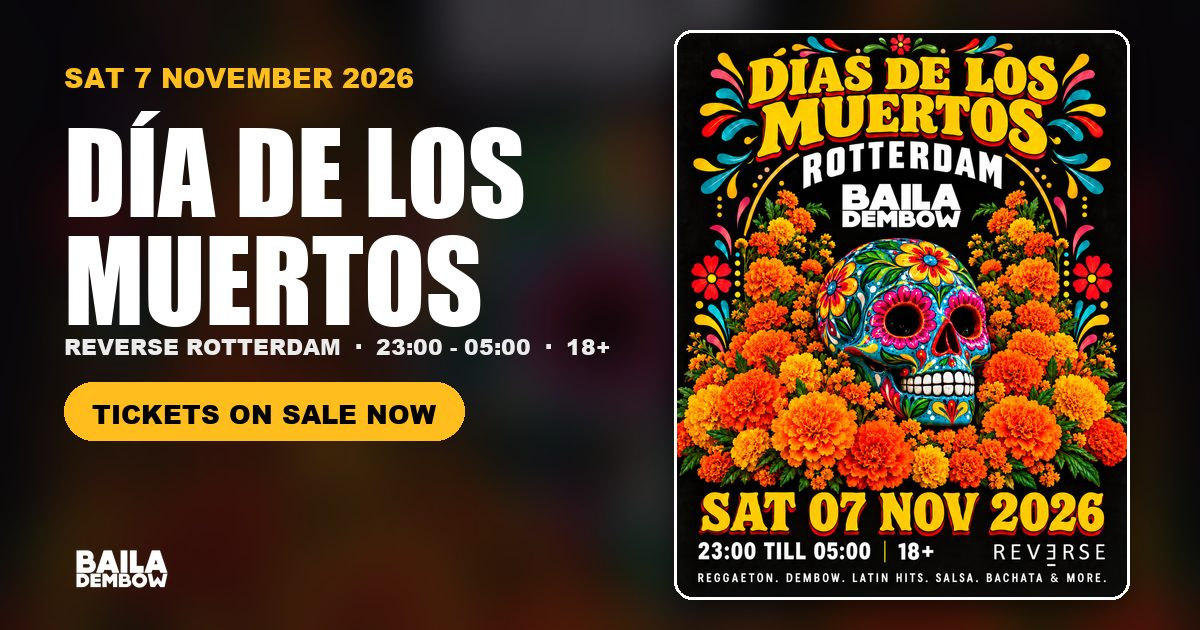
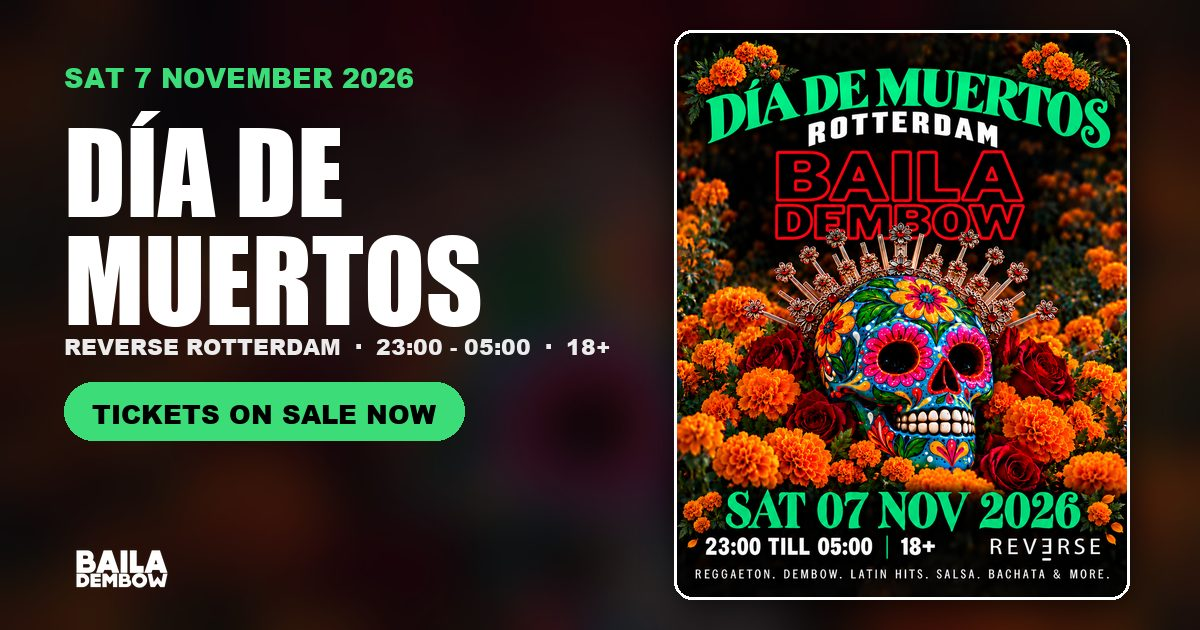
Día de Muertos Rotterdam live with the final poster
New poster (green/orange), preview card regenerated to match, event moved
back into EVENTS as "DÍA DE MUERTOS // ROTTERDAM"; sitemap entry and FAQ
agenda restored.

diff --git a/frontend/src/utils/constants.js b/frontend/src/utils/constants.js
@@ -56,7 +56,7 @@ export const GALLERY_IMAGES = [
 //   2026-10-05 — Amsterdam Oliva (26 Sep), Eindhoven (2 Oct), Rotterdam All White
 //                (3 Oct) removed (past)
 //   2026-10-12 — Groningen Huize Maas (10 Oct) removed (past)
-//   2026-10-16 — Rotterdam Día de los Muertos (7 Nov, Club Reverse) added, then parked in HIDDEN_EVENTS (poster change)
+//   2026-10-16 — Rotterdam Día de Muertos (7 Nov, Club Reverse) added (live with the final poster)
 //   Keep EVENTS in date order (pages also sort by date when rendering).
 //
 // The /events/PadelXReggaeton standalone route still exists in App.js for
@@ -104,12 +104,7 @@ export const EVENTS = [
     price_from: "",
     price_door: "",
     image_url: "/images/events/halloween-ijland-oct31-2026.png"
-  }
-];
-
-// Parked (hidden) events: not rendered anywhere until moved back into EVENTS.
-//   2026-10-16 — Rotterdam Día de los Muertos (7 Nov) hidden: poster is being changed.
-export const HIDDEN_EVENTS = [
+  },
   {
     id: "rotterdam-reverse-muertos-nov7-2026",
     customSlug: "dia-de-los-muertos-rotterdam-7-november-2026",
@@ -117,7 +112,7 @@ export const HIDDEN_EVENTS = [
     venue: "Club Reverse, Rotterdam",
     date: "2026-11-07",
     time: "23:00 – 05:00",
-    title: "DÍA DE LOS MUERTOS // ROTTERDAM",
+    title: "DÍA DE MUERTOS // ROTTERDAM",
     tagline: "Los muertos vuelven a bailar.",
     og_image: "/images/og/og-muertos-rotterdam.jpg",
     dress_code: "Face paint, flowers, catrina or catrín look — optional",
@@ -129,6 +124,7 @@ export const HIDDEN_EVENTS = [
     image_url: "/images/events/rotterdam-reverse-muertos-nov7-2026.png"
   }
 ];
+
 
 // Backward compat alias
 export const FALLBACK_EVENTS = EVENTS;
@@ -142,7 +138,7 @@ export const FAQS = [
   },
   {
     q: "Where can I find Latin party events in the Netherlands?",
-    a: "Baila Dembow hosts Latin parties across the Netherlands — Amsterdam, Rotterdam, Den Haag, Groningen, Leiden, Eindhoven and beyond. The upcoming agenda includes Leiden (23 October, Wibar) and the Amsterdam Latin Halloween Festival (31 October, IJLAND Amsterdam).",
+    a: "Baila Dembow hosts Latin parties across the Netherlands — Amsterdam, Rotterdam, Den Haag, Groningen, Leiden, Eindhoven and beyond. The upcoming agenda includes Leiden (23 October, Wibar), the Amsterdam Latin Halloween Festival (31 October, IJLAND Amsterdam) and Día de Muertos Rotterdam (7 November, Club Reverse).",
   },
   {
     q: "What is dembow music?",

diff --git a/frontend/public/index.html b/frontend/public/index.html
@@ -278,7 +278,7 @@
           "name": "Where can I find Latin party events in the Netherlands?",
           "acceptedAnswer": {
             "@type": "Answer",
-            "text": "Baila Dembow hosts Latin parties across the Netherlands — Amsterdam, Rotterdam, Den Haag, Groningen, Leiden, Eindhoven and beyond. The upcoming agenda includes Leiden (23 October, Wibar) and the Amsterdam Latin Halloween Festival (31 October, IJLAND Amsterdam)."
+            "text": "Baila Dembow hosts Latin parties across the Netherlands — Amsterdam, Rotterdam, Den Haag, Groningen, Leiden, Eindhoven and beyond. The upcoming agenda includes Leiden (23 October, Wibar), the Amsterdam Latin Halloween Festival (31 October, IJLAND Amsterdam) and Día de Muertos Rotterdam (7 November, Club Reverse)."
           }
         },
         {

diff --git a/frontend/scripts/make-og-images.py b/frontend/scripts/make-og-images.py
@@ -126,8 +126,8 @@ if __name__ == "__main__":
         ROOT / "images/events/rotterdam-reverse-muertos-nov7-2026.png",
         "og-muertos-rotterdam.jpg",
         kicker="SAT 7 NOVEMBER 2026",
-        title_lines=["DÍA DE LOS", "MUERTOS"],
+        title_lines=["DÍA DE", "MUERTOS"],
         sub="REVERSE ROTTERDAM  ·  23:00 - 05:00  ·  18+",
         pill="TICKETS ON SALE NOW",
-        accent=(255, 190, 30),
+        accent=(60, 220, 120),
     )
